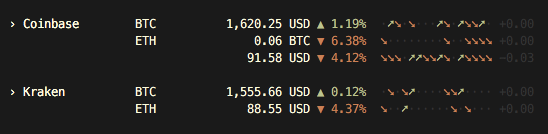
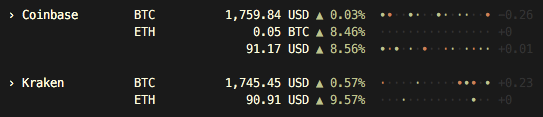
Switch to using major and minor symbols with thresholds, various bug fixes.

diff --git a/index.js b/index.js
@@ -56,7 +56,7 @@ const writeToStdout = (priceData, allowance) => {
         exchangeOutput = colors.bold.white(` › ${rightPad(toTitleCase(exchange), longestExchangeLength)}`) + leftPad('', options.app.padding);
         previousExchange = exchange;
       } else {
-        exchangeOutput = colors.bold.white(leftPad('', longestExchangeLength + 3)) + leftPad('', options.app.padding);
+        exchangeOutput = colors.bold(leftPad('', longestExchangeLength + 3)) + leftPad('', options.app.padding);
       }
 
       // Show currency name
@@ -68,9 +68,9 @@ const writeToStdout = (priceData, allowance) => {
       }
 
       // Show percent change in last 24 hours
-      if (priceData[exchange][market].price.change.percentage > 0) {
+      if ((priceData[exchange][market].price.change.percentage * 100).toFixed(2) > 0) {
         changeOutput = colors.green(`▲ ${rightPad((priceData[exchange][market].price.change.percentage * 100).toFixed(2).toString() + '%', 6)}`);
-      } else if (priceData[exchange][market].price.change.percentage < 0) {
+      } else if ((priceData[exchange][market].price.change.percentage * 100).toFixed(2) < 0) {
         changeOutput = colors.red(`▼ ${rightPad(((priceData[exchange][market].price.change.percentage * 100).toFixed(2) * -1).toString() + '%', 6)}`);
       } else {
         changeOutput = `- ${rightPad((priceData[exchange][market].price.change.percentage * 100).toFixed(2).toString() + '%', 6)}`;
@@ -83,20 +83,34 @@ const writeToStdout = (priceData, allowance) => {
         previousPriceData[exchange][market] &&
         +(previousPriceData[exchange][market].price.last)
       ) {
+        let currentLastPrice = priceData[exchange][market].price.last.toFixed(2);
+        let previousLastPrice = previousPriceData[exchange][market].price.last.toFixed(2);
+        let symbol = Math.abs(currentLastPrice - previousLastPrice).toFixed(2) > options.app.history.majorThreshold ?
+          options.app.history.majorSymbol :
+          options.app.history.minorSymbol;
+
         priceDataHistory[exchange + market] = priceDataHistory[exchange + market] || new Array(options.app.history.length).fill(' ');
 
-        if (priceData[exchange][market].price.last > previousPriceData[exchange][market].price.last) {
-          priceDataHistory[exchange + market].push(colors.green(options.app.history.positiveSymbol));
-        } else if (priceData[exchange][market].price.last < previousPriceData[exchange][market].price.last) {
-          priceDataHistory[exchange + market].push(colors.red(options.app.history.negativeSymbol));
+        if (
+          currentLastPrice > previousLastPrice &&
+          currentLastPrice - previousLastPrice > options.app.history.minorThreshold
+        ) {
+          // Price has increased since last update and was greater than threshold
+          priceDataHistory[exchange + market].push(colors.green(symbol));
+        } else if (
+          currentLastPrice < previousLastPrice &&
+          previousLastPrice - currentLastPrice > options.app.history.minorThreshold
+        ) {
+          // Price has decreased since last update and was greater than threshold
+          priceDataHistory[exchange + market].push(colors.red(symbol));
         } else {
           priceDataHistory[exchange + market].push(colors.grey(options.app.history.neutralSymbol));
         }
 
-        historyChangeOutput = (priceData[exchange][market].price.last - previousPriceData[exchange][market].price.last).toFixed(2);
+        historyChangeOutput = (currentLastPrice - previousLastPrice).toFixed(2);
 
         if (historyChangeOutput >= 0) {
-          historyChangeOutput = `+${Math.abs(historyChangeOutput).toFixed(2)}`;
+          historyChangeOutput = `+${Math.abs(historyChangeOutput)}`;
         }
       }
 
@@ -131,7 +145,7 @@ const retrieveMarketData = () => {
   let priceData = {};
 
   needle.get('https://api.cryptowat.ch/markets/summaries', (error, response) => {
-    if (!error && response.statusCode === 200) {
+    if (!error && response && response.body && response.statusCode === 200) {
       _.forEach(response.body.result, (data, market) => {
         if (options.markets.indexOf(market) === -1) {
           return;

diff --git a/README.md b/README.md
@@ -14,7 +14,6 @@ Once installed globally, `crypticker` can be run as a binary
 ```bash
 crypticker
 ```
-    
 
 ### Options
 Markets and application preferences can be managed within `options.json`. If the package was installed globally, the options file may be found with `which crypticker`.
@@ -26,9 +25,11 @@ Markets and application preferences can be managed within `options.json`. If the
 | history | Object | Parameters around ticker history display | |
 | \|-enabled | Boolean | Toggles history display on and off | `true` |
 | \|-length | Integer | Number of ticks to display within readout | `16` |
+| \|-minorThreshold | Float | Change percentage that must be exceeded to display a minor symbol | `0.00` |
+| \|-majorThreshold | Float | Change percentage that must be exceeded to display a major symbol | `0.20` |
+| \|-minorSymbol | String | Symbol to use for minor trend | `⋅` |
+| \|-majorSymbol | String | Symbol to use for major trend | `∙` |
 | \|-neutralSymbol | String | Symbol to use for no trend | `⋅` |
-| \|-positiveSymbol | String | Symbol to use for positive trend | `➚` |
-| \|-negativeSymbol | String | Symbol to use for negative trend | `➘` |
 | markets | Array | List of markets to monitor | `['kraken:ethusd']` |
 
 Powered by the [Cryptowatch](https://cryptowat.ch/docs/api) public API. A listing of supported markets can be found [here](https://api.cryptowat.ch/markets).
